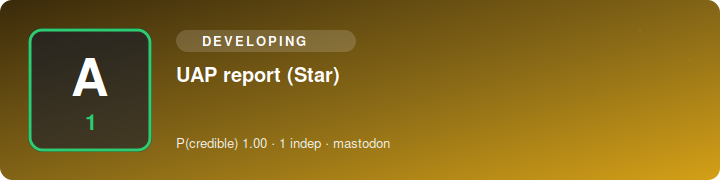
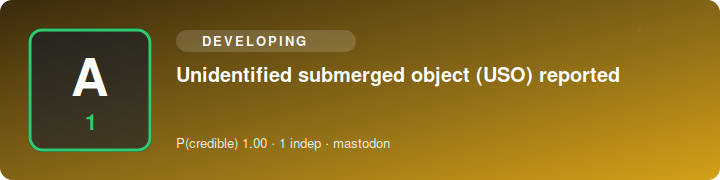
SITREP 2026-08-14 03:50 UTC

Changed region(s): [[0.2444, 0.3611, 0.8861, 0.4722]]

diff --git a/index.html b/index.html
@@ -1,1 +1,1 @@
-<!doctype html><meta charset=utf-8><title>Science Bob News — SITREP</title><style>body{font:16px/1.5 system-ui,sans-serif;max-width:760px;margin:2rem auto;padding:0 1rem;color:#111}h1{font-size:1.5rem}h2{margin-top:1.6rem;border-bottom:1px solid #ddd;padding-bottom:.2rem}ul{list-style:none;padding:0}li{margin:.9rem 0}.hl{font-weight:600}.meta{color:#555;font-size:.85rem}.src{font-size:.85rem}.vid{font-size:.85rem;margin-top:.15rem}.card{display:block;max-width:100%;height:auto;border-radius:8px;margin:.4rem 0 .5rem}.upd{background:#fde68a;padding:0 .3rem;border-radius:.2rem;font-size:.75rem}.sub{color:#777;font-size:.85rem}footer{color:#777;font-size:.8rem;margin-top:2rem;border-top:1px solid #ddd;padding-top:.6rem}</style><h1>🛸 Science Bob News</h1><div class="sub">UAP / UFO / USO SITREP · updated 2026-08-14 03:40 UTC · automated</div><h2>Corroborated</h2><ul><li><i>No corroborated reports.</i></li></ul><h2>Developing / unconfirmed</h2><ul><li><img class="card" src="https://n4hy.github.io/sciencebobnews-site/card_d_1.svg" alt="" width="720" height="180"><div class="hl">Unidentified submerged object (USO) reported</div><div class="meta">reliability <b>A1</b> · P(credible)=1.0 · 1 independent source(s) · mastodon</div><div class="src"><a href="https://mastodon.social/@ScienceBob/117091074699308374">@ScienceBob</a></div></li><li><img class="card" src="https://n4hy.github.io/sciencebobnews-site/card_d_2.svg" alt="" width="720" height="180"><div class="hl">UAP report</div><div class="meta">reliability <b>A1</b> · P(credible)=1.0 · 1 independent source(s) · mastodon</div><div class="src"><a href="https://mastodon.online/@KilleansRow/117086761570315232">@KilleansRow@mastodon.online</a></div></li></ul><footer><b>Powered by Science Bob News.</b> Free to use with credit (see LICENSE). Headlines are factual restatements in the engine's own words; click sources for originals. Single-origin reposts collapse to one source; prosaic candidates flagged where offered.</footer>
+<!doctype html><meta charset=utf-8><title>Science Bob News — SITREP</title><style>body{font:16px/1.5 system-ui,sans-serif;max-width:760px;margin:2rem auto;padding:0 1rem;color:#111}h1{font-size:1.5rem}h2{margin-top:1.6rem;border-bottom:1px solid #ddd;padding-bottom:.2rem}ul{list-style:none;padding:0}li{margin:.9rem 0}.hl{font-weight:600}.meta{color:#555;font-size:.85rem}.src{font-size:.85rem}.vid{font-size:.85rem;margin-top:.15rem}.card{display:block;max-width:100%;height:auto;border-radius:8px;margin:.4rem 0 .5rem}.upd{background:#fde68a;padding:0 .3rem;border-radius:.2rem;font-size:.75rem}.sub{color:#777;font-size:.85rem}footer{color:#777;font-size:.8rem;margin-top:2rem;border-top:1px solid #ddd;padding-top:.6rem}</style><h1>🛸 Science Bob News</h1><div class="sub">UAP / UFO / USO SITREP · updated 2026-08-14 03:50 UTC · automated</div><h2>Corroborated</h2><ul><li><img class="card" src="https://n4hy.github.io/sciencebobnews-site/card_c_1.svg" alt="" width="720" height="180"><div class="hl">UAP report</div><div class="meta">reliability <b>A1</b> · P(credible)=1.0 · 2 independent source(s) · mastodon</div><div class="src"><a href="https://mastodon.online/@KilleansRow/117086761570315232">@KilleansRow@mastodon.online</a> · <a href="https://mastodon.linkerror.com/@photronicarts/117085058232230276">@photronicarts@mastodon.linkerror.com</a></div></li></ul><h2>Developing / unconfirmed</h2><ul><li><img class="card" src="https://n4hy.github.io/sciencebobnews-site/card_d_1.svg" alt="" width="720" height="180"><div class="hl">Official UAP statement reported (That)</div><div class="meta">reliability <b>A1</b> · P(credible)=1.0 · 1 independent source(s) · mastodon</div><div class="src"><a href="https://mastodon.au/@vibewire/117090074549881678">@vibewire@mastodon.au</a></div></li><li><img class="card" src="https://n4hy.github.io/sciencebobnews-site/card_d_2.svg" alt="" width="720" height="180"><div class="hl">UAP report</div><div class="meta">reliability <b>A1</b> · P(credible)=1.0 · 1 independent source(s) · mastodon</div><div class="src"><a href="https://mastodon.au/@vibewire/117087164265990637">@vibewire@mastodon.au</a></div></li><li><img class="card" src="https://n4hy.github.io/sciencebobnews-site/card_d_3.svg" alt="" width="720" height="180"><div class="hl">Official UAP statement reported</div><div class="meta">reliability <b>A1</b> · P(credible)=1.0 · 1 independent source(s) · mastodon</div><div class="src"><a href="https://mastodon.au/@vibewire/117089625413156296">@vibewire@mastodon.au</a></div></li><li><img class="card" src="https://n4hy.github.io/sciencebobnews-site/card_d_4.svg" alt="" width="720" height="180"><div class="hl">Official UAP statement reported</div><div class="meta">reliability <b>A1</b> · P(credible)=1.0 · 1 independent source(s) · rumble</div><div class="src"><a href="https://www.youtube.com/watch?v=VM8ZX9-ruUM">@podcast</a></div><div class="vid">📹 <a href="https://www.youtube.com/watch?v=VM8ZX9-ruUM">video</a></div></li><li><img class="card" src="https://n4hy.github.io/sciencebobnews-site/card_d_5.svg" alt="" width="720" height="180"><div class="hl">Unidentified submerged object (USO) reported</div><div class="meta">reliability <b>A1</b> · P(credible)=1.0 · 1 independent source(s) · mastodon</div><div class="src"><a href="https://mastodon.social/@ScienceBob/117091074699308374">@ScienceBob</a></div></li></ul><footer><b>Powered by Science Bob News.</b> Free to use with credit (see LICENSE). Headlines are factual restatements in the engine's own words; click sources for originals. Single-origin reposts collapse to one source; prosaic candidates flagged where offered.</footer>

diff --git a/sitrep.md b/sitrep.md
@@ -1,18 +1,35 @@
 # 🛸 Science Bob News — UAP / UFO / USO SITREP
-*Updated 2026-08-14 03:40 UTC · auto-generated · sources credited & linked · reliability ratings are automated, not editorial*
+*Updated 2026-08-14 03:50 UTC · auto-generated · sources credited & linked · reliability ratings are automated, not editorial*
 
 ## Corroborated
-_No corroborated reports this cycle._
+
+![UAP report](https://n4hy.github.io/sciencebobnews-site/card_c_1.svg)
+1. **UAP report**  
+   reliability **A1** · P(credible)=1.0 · 2 independent source(s) · mastodon  
+   [@KilleansRow@mastodon.online](https://mastodon.online/@KilleansRow/117086761570315232) · [@photronicarts@mastodon.linkerror.com](https://mastodon.linkerror.com/@photronicarts/117085058232230276)
 
 ## Developing / unconfirmed
 
-![Unidentified submerged object (USO) reported](https://n4hy.github.io/sciencebobnews-site/card_d_1.svg)
-1. Unidentified submerged object (USO) reported — reliability A1 · 1 source(s)  
-   [@ScienceBob](https://mastodon.social/@ScienceBob/117091074699308374)
+![Official UAP statement reported (That)](https://n4hy.github.io/sciencebobnews-site/card_d_1.svg)
+1. Official UAP statement reported (That) — reliability A1 · 1 source(s)  
+   [@vibewire@mastodon.au](https://mastodon.au/@vibewire/117090074549881678)
 
 ![UAP report](https://n4hy.github.io/sciencebobnews-site/card_d_2.svg)
 2. UAP report — reliability A1 · 1 source(s)  
-   [@KilleansRow@mastodon.online](https://mastodon.online/@KilleansRow/117086761570315232)
+   [@vibewire@mastodon.au](https://mastodon.au/@vibewire/117087164265990637)
+
+![Official UAP statement reported](https://n4hy.github.io/sciencebobnews-site/card_d_3.svg)
+3. Official UAP statement reported — reliability A1 · 1 source(s)  
+   [@vibewire@mastodon.au](https://mastodon.au/@vibewire/117089625413156296)
+
+![Official UAP statement reported](https://n4hy.github.io/sciencebobnews-site/card_d_4.svg)
+4. Official UAP statement reported — reliability A1 · 1 source(s)  
+   [@podcast](https://www.youtube.com/watch?v=VM8ZX9-ruUM)  
+   📹 [video](https://www.youtube.com/watch?v=VM8ZX9-ruUM)
+
+![Unidentified submerged object (USO) reported](https://n4hy.github.io/sciencebobnews-site/card_d_5.svg)
+5. Unidentified submerged object (USO) reported — reliability A1 · 1 source(s)  
+   [@ScienceBob](https://mastodon.social/@ScienceBob/117091074699308374)
 
 ---
 *Powered by Science Bob News. Free to use with credit (see LICENSE). Headlines are factual restatements in the engine's own words — click through to the linked sources for originals. Reposts of a single origin are collapsed to one source; candidate prosaic explanations are flagged where offered.*
